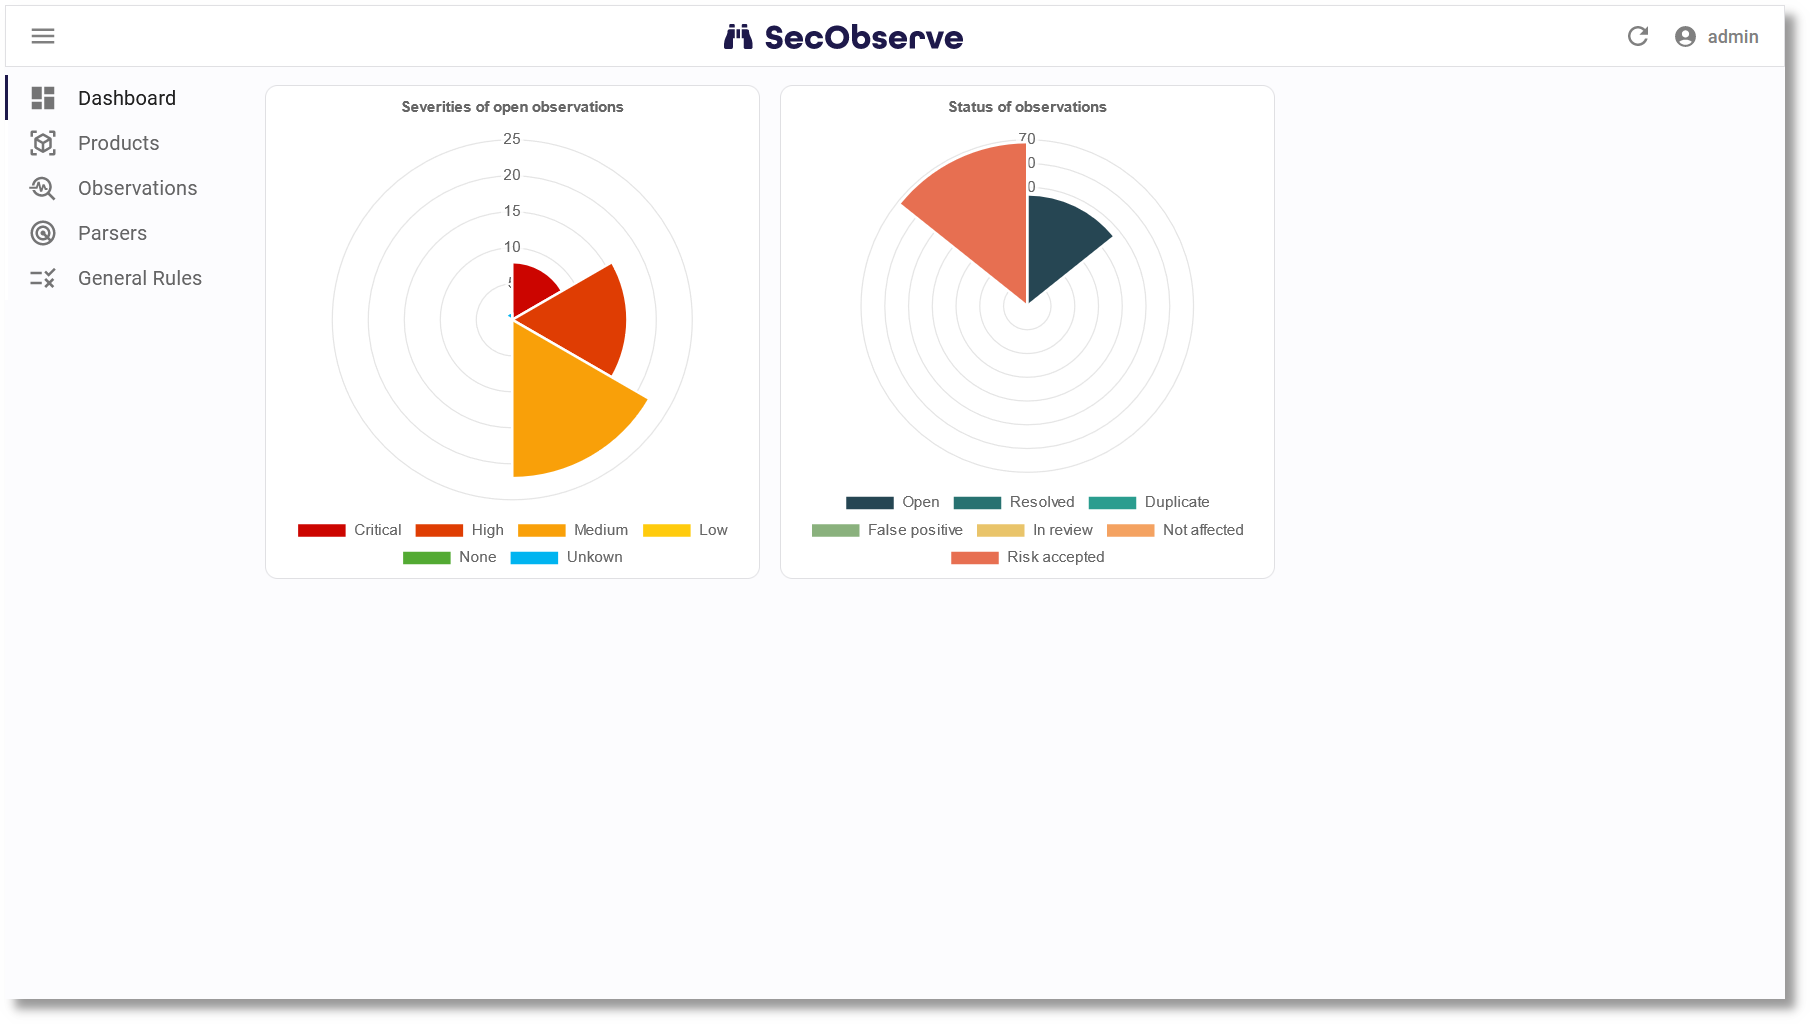
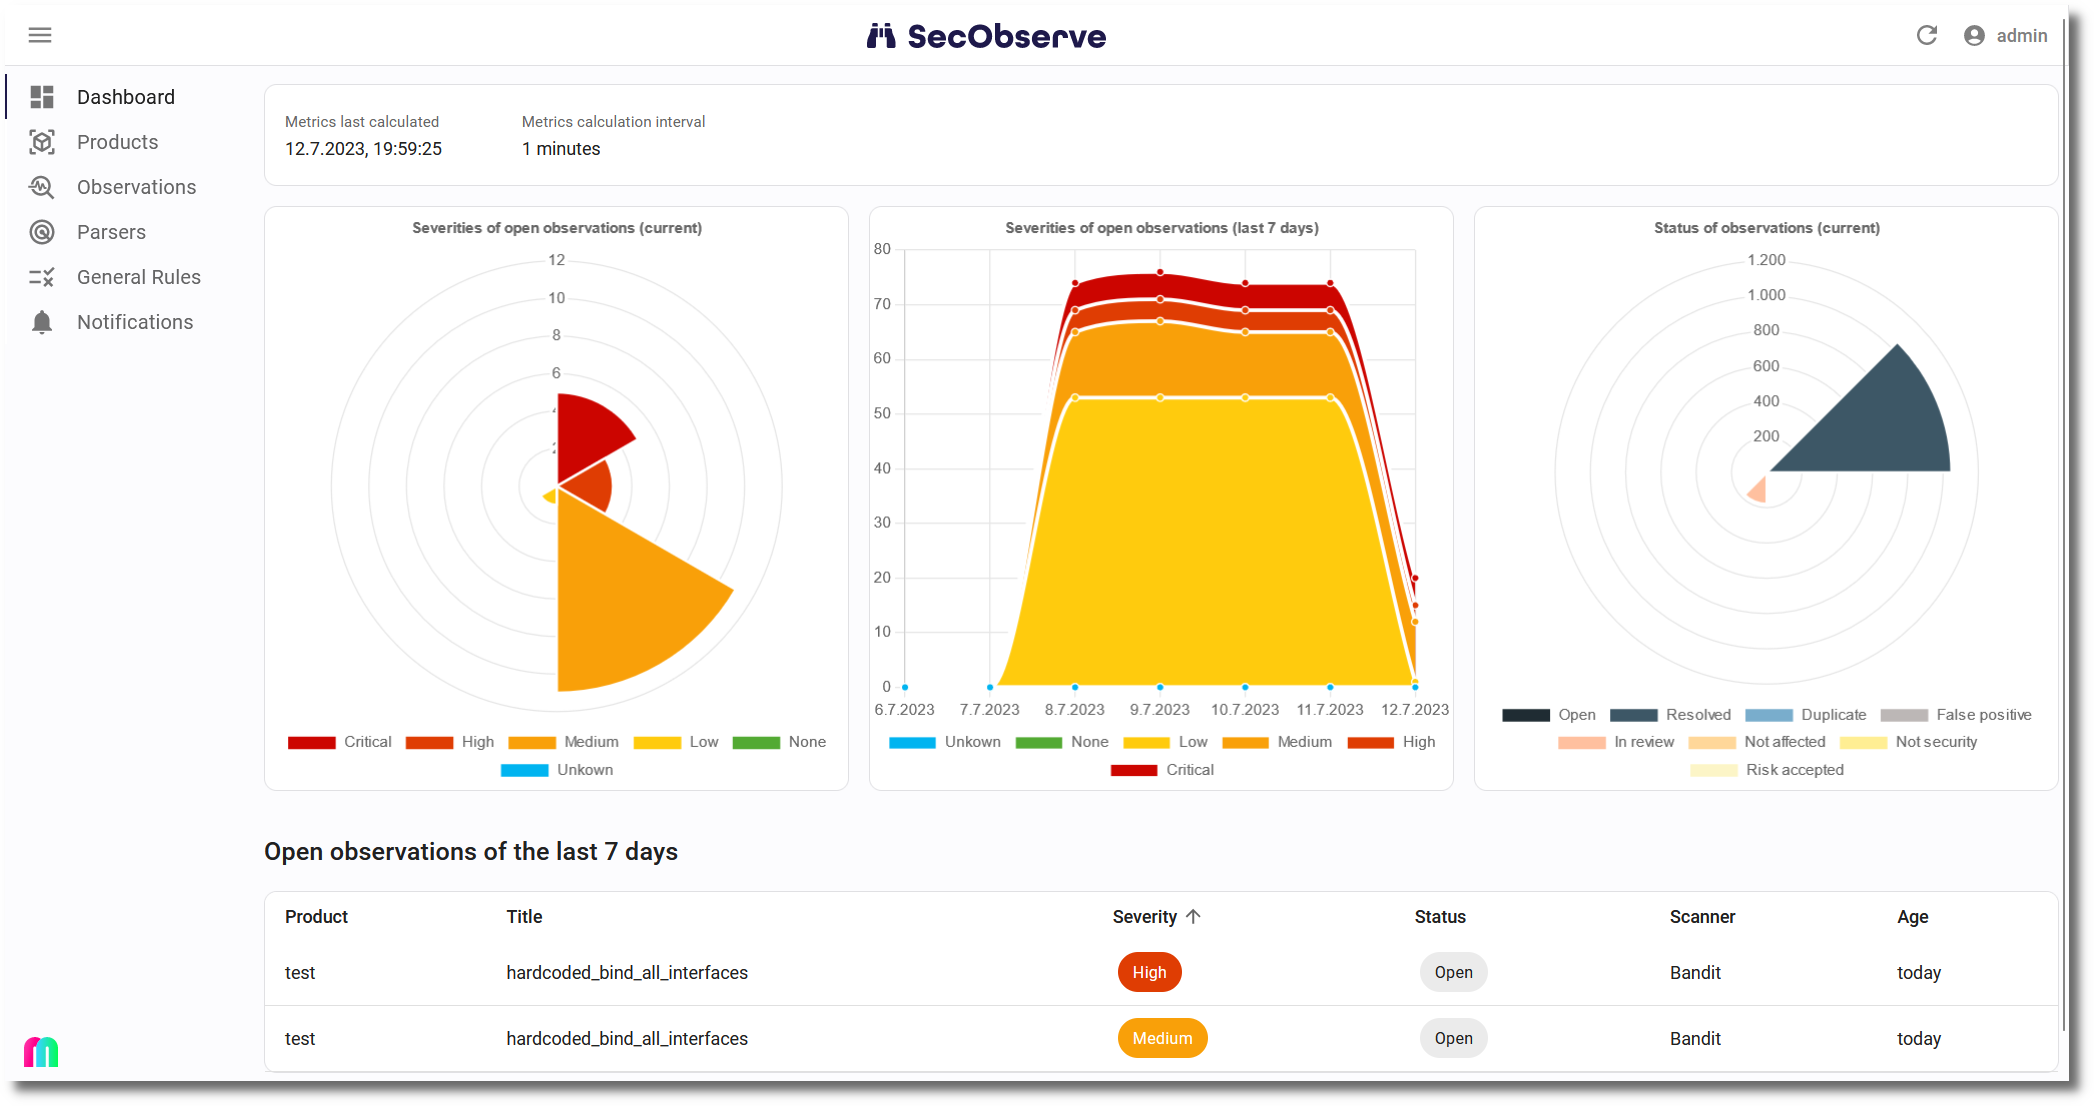
chore: documentation for metrics

diff --git a/docs/usage/metrics.md b/docs/usage/metrics.md
@@ -1,0 +1,10 @@
+# Metrics
+
+Metrics about observations are shown in 2 places:
+
+* On the dashboard a user can see the aggregated metrics of the observations for all products they have access to.
+* On the *Metrics* tab of a product a user can see the metrics for the observations of that product.
+
+![Metrics](../assets/images/screenshot_dashboard.png)
+
+Metrics are calculated in an asychronous task. Per default the task is scheduled to run every 5 minutes. This default can be changed by administrators via the [admin user interface](../../getting_started/configuration/#admin-user-interface).
